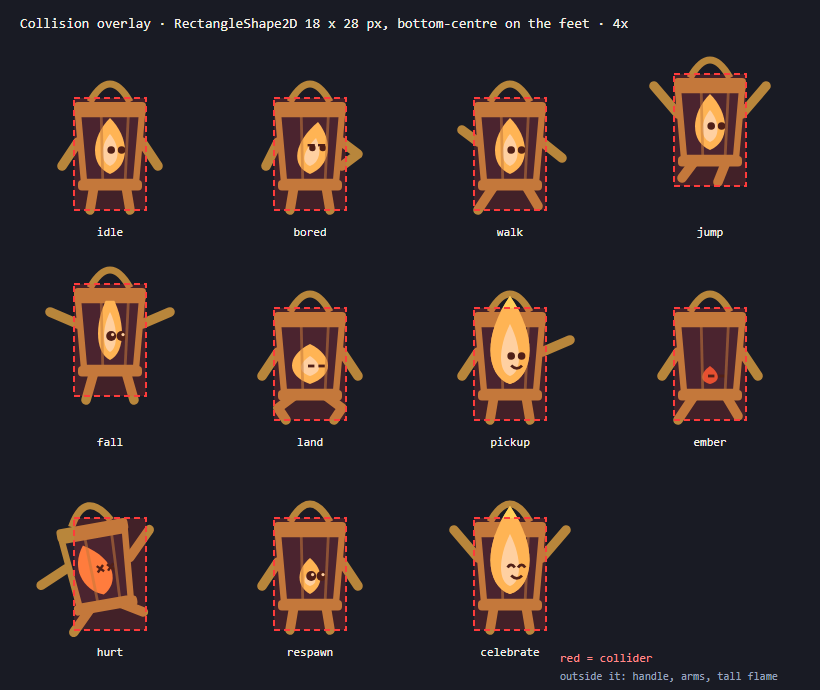
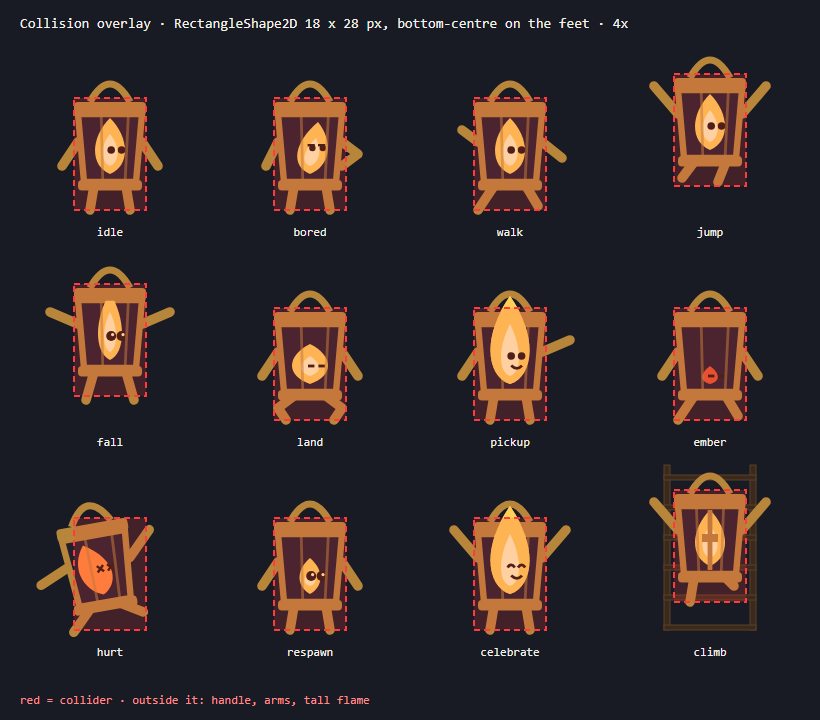
Add CHANGE-BRIEF.md v1; add ladder, ember light ring, climb pose
CHANGE-BRIEF: asset list, event-to-sound map tied to existing state
transitions, music behavior, oil and ladder rules, failure cases F1-F8.
Rui's decisions: ladder in the slice (CHAR-CLIMB, ENV-LADDER), a small
light ring remains at zero oil, character sheet stays SVG. CONCEPT and
CHARACTER-SHEET get appended revision logs; v1 text unchanged.

diff --git a/design/character/src/make_character_sheet.py b/design/character/src/make_character_sheet.py
@@ -37,6 +37,7 @@ LEGS = {
     "fall": [[(-4, -6), (-6, 1)], [(4, -6), (6, 1)]],
     "land": [[(-4, -6), (-8, -3), (-6, 0)], [(4, -6), (8, -3), (6, 0)]],
     "hurt": [[(-4, -6), (-9, -1)], [(4, -6), (9, -3)]],
+    "climb": [[(-4, -6), (-5, 0)], [(4, -6), (6, -4)]],
     "side": [[(-1, -6), (-3, 0)], [(1, -6), (3, 0)]],
 }
 ARMS = {
@@ -62,6 +63,7 @@ POSES = {
     "hurt": ("hurt", "hurt", "hurt", "three"),
     "respawn": ("idle", "idle", "kindle", "three"),
     "celebrate": ("idle", "up", "joy", "three"),
+    "climb": ("climb", "up", "full", "back"),  # added 2026-10-06: ladder is in the slice
 }
 
 
@@ -201,44 +203,54 @@ def turnaround():
     return svg(1010, 360, body)
 
 
+def ladder(cx, gy):
+    rails = "".join(f'<rect x="{cx + dx}" y="{gy - 165}" width="6" height="165" fill="#3b2a1c" stroke="#5a412a"/>' for dx in (-46, 40))
+    rungs = "".join(f'<rect x="{cx - 46}" y="{y}" width="92" height="5" fill="#3b2a1c" stroke="#5a412a"/>' for y in range(gy - 155, gy, 30))
+    return rails + rungs
+
+
 def poses():
     S = 4
     order = [("idle", "1 idle"), ("bored", "2 bored (idle > 4 s)"), ("walk", "3 walk"),
              ("jump", "4 jump (rising)"), ("fall", "5 fall"), ("land", "6 land"),
              ("pickup", "7 oil pickup"), ("ember", "8 ember (oil = 0)"), ("hurt", "9 hurt / fail"),
-             ("respawn", "10 respawn"), ("celebrate", "11 celebrate (exit)")]
+             ("respawn", "10 respawn"), ("celebrate", "11 celebrate (exit)"),
+             ("climb", "12 climb (on ladder)")]
     body = text(20, 28, "Wick — poses (right-facing; left = runtime flip) · drawn at 4x, feet on the line", 14)
     for i, (p, label) in enumerate(order):
         col, row = i % 4, i // 4
         cx, gy = 110 + col * 200, 210 + row * 210
         body += f'<line x1="{cx - 80}" y1="{gy}" x2="{cx + 80}" y2="{gy}" stroke="#6a7190" stroke-width="2"/>'
-        lift = -24 if p in ("jump", "fall") else 0
+        lift = -24 if p in ("jump", "fall") else (-28 if p == "climb" else 0)
         rot = -10 if p == "hurt" else 0
+        if p == "climb":
+            body += ladder(cx, gy)
         body += wick(cx, gy + lift, S, p, rot=rot)
         if p == "respawn":
             body += f'<circle cx="{cx}" cy="{gy - 60}" r="70" fill="none" stroke="#ffe08a" stroke-width="2" stroke-dasharray="3 9"/>'
         body += text(cx, gy + 26, label, 12, anchor="middle")
-    body += text(620, 676, "12 turnaround → turnaround.png", 12, "#9aa3bf")
-    return svg(820, 690, body)
+    body += text(20, 704, "13 turnaround → turnaround.png · climb is the back view, seen while on a ladder", 12, "#9aa3bf")
+    return svg(820, 720, body)
 
 
 def collision():
     S = 4
-    order = ["idle", "bored", "walk", "jump", "fall", "land", "pickup", "ember", "hurt", "respawn", "celebrate"]
+    order = ["idle", "bored", "walk", "jump", "fall", "land", "pickup", "ember", "hurt", "respawn", "celebrate", "climb"]
     x0, y0, w, h = COLLIDER
     body = text(20, 28, "Collision overlay · RectangleShape2D 18 x 28 px, bottom-centre on the feet · 4x", 14)
     for i, p in enumerate(order):
         col, row = i % 4, i // 4
         cx, gy = 110 + col * 200, 210 + row * 210
-        lift = -24 if p in ("jump", "fall") else 0
+        lift = -24 if p in ("jump", "fall") else (-28 if p == "climb" else 0)
         rot = -10 if p == "hurt" else 0
+        if p == "climb":
+            body += ladder(cx, gy)
         body += wick(cx, gy + lift, S, p, rot=rot)
         body += (f'<rect x="{cx + x0 * S}" y="{gy + lift + y0 * S}" width="{w * S}" height="{h * S}" '
                  f'fill="#ff3b3b" fill-opacity="0.18" stroke="#ff3b3b" stroke-width="2" stroke-dasharray="6 4"/>')
         body += text(cx, gy + 26, p, 12, anchor="middle")
-    body += text(560, 662, "red = collider", 12, "#ff8a8a")
-    body += text(560, 680, "outside it: handle, arms, tall flame", 11, "#9aa3bf")
-    return svg(820, 690, body)
+    body += text(20, 704, "red = collider · outside it: handle, arms, tall flame", 12, "#ff8a8a")
+    return svg(820, 720, body)
 
 
 def silhouette_1x():

diff --git a/CHANGE-BRIEF.md b/CHANGE-BRIEF.md
@@ -1,0 +1,154 @@
+# Change brief — Lamplight asset slice (v1, 2026-10-03)
+
+The plan and the predictions, written before any generation; panel numbers refer to the hand-drawn STORYBOARD.md v2. This file is **append-only** after it is
+committed: later changes go in the revision log at the bottom, not into the text above it.
+
+Starting point: walker-jumpman `9387542` `godot/`. Its `session.gd` already has the state machine this
+slice hangs everything on: `MENU → PLAYING ⇄ PAUSED`, `PLAYING → DYING → PLAYING` (0.55 s), and
+`PLAYING → COMPLETE`. Sounds and music **listen** to those transitions; they never drive them.
+
+## 1. Asset list
+
+"Gen" = made by a generative model (local, logged in SOURCES.md). "Code" = drawn or produced in Godot by
+code, which does not count toward the generative-model requirement. **Req** = required for the slice to
+meet the assignment; **Want** = used if it passes its check; the slice works without it.
+
+### Character (all from one reference, 32×40 px, palette-quantised — see CHARACTER-SHEET.md)
+
+| ID | What | Source | Panels | Priority | Planned path |
+|---|---|---|---|---|---|
+| CHAR-REF | Reference image every pose is derived from (not shown in game) | Gen | — | Req | `design/generation/char-ref/` |
+| CHAR-IDLE | idle | Gen | P1 P2 | Req | `godot/assets/char/wick_idle.png` |
+| CHAR-WALK | walk | Gen | P5 | Req | `godot/assets/char/wick_walk.png` |
+| CHAR-JUMP | jump, rising | Gen | P3 | Req | `godot/assets/char/wick_jump.png` |
+| CHAR-FALL | fall | Gen | P3 | Req | `godot/assets/char/wick_fall.png` |
+| CHAR-PICKUP | oil pickup | Gen | P4 | Req | `godot/assets/char/wick_pickup.png` |
+| CHAR-EMBER | ember (oil = 0) | Gen | P5 | Req | `godot/assets/char/wick_ember.png` |
+| CHAR-HURT | hurt / fail | Gen | P6 | Req | `godot/assets/char/wick_hurt.png` |
+| CHAR-CELEBRATE | celebrate | Gen | P8 | Req | `godot/assets/char/wick_celebrate.png` |
+| CHAR-RESPAWN | respawn | Gen | P7 | Want | `godot/assets/char/wick_respawn.png` |
+| CHAR-LAND | land | Gen | — | Want | `godot/assets/char/wick_land.png` |
+| CHAR-BORED | bored | Gen | — | Want | `godot/assets/char/wick_bored.png` |
+| CHAR-CLIMB | climb — back view on a ladder | Gen | P1 | Req | `godot/assets/char/wick_climb.png` |
+
+### Environment
+
+| ID | What | Source | Panels | Priority | Planned path |
+|---|---|---|---|---|---|
+| ENV-BG | Rock back wall, tiles horizontally, 640×360 | Gen | P1–P7 | Req | `godot/assets/env/bg_rock.png` |
+| ENV-TILE | Rock ledge tile set (top edge + fill), 16×16 cells | Gen | P2 P3 P5 P7 | Req | `godot/assets/env/tiles_rock.png` |
+| ENV-SPIKE | Spike strip, 8 px wide per spike | Gen | P3 P6 | Req | `godot/assets/env/spikes.png` |
+| ENV-OIL | Oil drop pickup, ~12×12 | Gen | P2 P4 | Req | `godot/assets/env/oil_drop.png` |
+| ENV-LAMPPOST | Checkpoint lamp post, ~16×48 | Gen | P7 | Want | `godot/assets/env/lamppost.png` |
+| ENV-LADDER | Wooden ladder segment that tiles vertically, 16 px wide | Gen | P1 | Req | `godot/assets/env/ladder.png` |
+| ENV-TIMBER | Pit-prop timber frame (set dressing; not in the hand-drawn panels) | Gen | — | Want | `godot/assets/env/timber.png` |
+| ENV-EXIT | Outdoor daylight end scene: open sky, sun, cloud, ground (storyboard v2 P8) | Gen | P1 P8 | Want | `godot/assets/env/exit_light.png` |
+
+### Code-made (not generated)
+
+| ID | What | Panels |
+|---|---|---|
+| LIGHT | Wick's light: a `PointLight2D` whose texture scale follows oil, over a `CanvasModulate` darkness | all gameplay |
+| UI-GAUGE | Oil gauge (flame icon + bar; red outline at 0) | P2 P5 |
+| UI-TEXT | Title, pause, end card text and the mute indicators | P1 P8 |
+| FX-FLASH | Red flash on the spike that killed you | P6 |
+
+### Sound and music
+
+| ID | What | Source | Panels | Priority | Planned path |
+|---|---|---|---|---|---|
+| SFX-JUMP | Short, dry, light "hop" with a small metal clink | Gen | P3 | Req | `godot/assets/audio/sfx_jump.ogg` |
+| SFX-PICKUP | Bright liquid "gulp" + flame flare, rising | Gen | P4 | Req | `godot/assets/audio/sfx_pickup.ogg` |
+| SFX-HURT | Sharp metallic hit + hiss of the flame | Gen | P6 | Req | `godot/assets/audio/sfx_hurt.ogg` |
+| SFX-EXIT | Open, airy resolve — wind and a soft chime | Gen | P8 | Req | `godot/assets/audio/sfx_exit.ogg` |
+| MUS-LOOP | Tense, steady pulse loop with a warm melodic layer, cut at a bar boundary | Gen | P1–P7 | Req | `godot/assets/audio/mus_loop.ogg` |
+
+## 2. Event-to-sound map
+
+Each sound is played by a small `Audio` node that connects to a **signal emitted at the one line where
+the event already happens**. The signal is emitted after the state change, and nothing reads back from
+the audio node, so a missing file, a muted bus or a failed load cannot change what happens.
+
+| Sound | Exact game event (existing code) | Why it can only fire once | Double-trigger risk we will test |
+|---|---|---|---|
+| SFX-JUMP | `player.gd` `_physics_process`, the branch that sets `velocity.y = jump_velocity` and `jumps += 1`. New signal `jumped`. Jumping off a ladder goes through the **same** branch (being on a ladder counts as a jump opportunity), so there is still one emit site. | That branch sets `opportunity_consumed = true`; it cannot run again until Wick is on the floor or grabs a ladder again. Jump uses `is_action_just_pressed`, so holding Space does not repeat. | Holding Space through a landing; mashing Space during coyote time; jump-buffer press just before landing; mashing Space while on a ladder. |
+| SFX-PICKUP | New: oil drop `Area2D` overlap, checked in `session.gd` `_physics_process` next to the hazard check. Signal `oil_collected`. | The drop is marked `collected`, hidden and its monitoring disabled **before** the signal is emitted; collected drops are skipped. | Standing on a drop for many frames; touching two drops in one frame (two sounds is correct there — one per drop). |
+| SFX-HURT | `session.gd` `resolve_contacts`, `fatal` branch (`PLAYING → DYING`). Signal `died`. Covers spikes and falling out. | The function returns early unless `state == PLAYING`, and the branch leaves `PLAYING`. Spike and fall in the same tick are OR-ed into one `fatal`. | Landing on two spike areas at once; spike + fall in one tick; the starter's phantom-contact case after respawn (`contact_settle_ticks`). |
+| SFX-EXIT | `session.gd` `resolve_contacts`, `finished` branch (`PLAYING → COMPLETE`). Signal `completed`. | Same guard: only from `PLAYING`, and the branch leaves it. | Standing inside the exit area for many frames; pressing Enter on the end card (starts a new session, no exit sound). |
+
+Not sounds in this slice (by decision, to keep four clear events): landing, footsteps, climbing, oil
+running out, respawn, menu clicks.
+
+## 3. Music behavior
+
+`MUS-LOOP` runs on its own **Music** bus with an `AudioEffectLowPassFilter`; the four sounds run on an
+**SFX** bus. Mute keys toggle `AudioServer.set_bus_mute` only.
+
+| Situation | Music does | Implemented as |
+|---|---|---|
+| Title (MENU) | Plays at full brightness | stream playing, cutoff 20 kHz |
+| Playing, oil healthy → low | Same loop, increasingly muffled as oil drops | cutoff follows oil: about 20 kHz at full, ~800 Hz near zero (curve to tune by ear) |
+| Ember (oil = 0) | Muffled to mostly the low pulse, slightly quieter | cutoff ~400 Hz, −4 dB |
+| Oil pickup | Opens back up over ~0.3 s | cutoff eased toward the new target |
+| **Pause** (Esc/P, or window loses focus) | Pauses; resumes from the same position | `stream_paused = true / false` |
+| **Failure** (DYING, 0.55 s) | Dips; keeps its position; comes back on respawn | volume ducked −12 dB, restored over 0.3 s in `restart_attempt` |
+| **Success / end of slice** (COMPLETE) | Stops and stays stopped on the end card; SFX-EXIT plays alone | `stop()`; Enter starts a new session and the loop from its start |
+| Back to menu (M) | Starts again at full brightness | `play()` from the start |
+
+The loop itself must repeat with no click or gap: it is cut at a bar boundary and imported with
+`loop = true` in the OGG import settings.
+
+**Controls added by the slice:** `N` = mute / unmute music, `B` = mute / unmute effects (the starter
+already uses `M` for menu). Both show a small on-screen indicator.
+
+## 4. Oil rules (needed to wire the light and the music; numbers are first guesses)
+
+- Oil 0–100, drains 4 per second (25 s from full to empty). Oil drop: +35, capped at 100.
+- Light radius from about 120 px at full to about 28 px (ember) at zero. **The light never goes fully
+  out:** at zero oil a small ring stays around Wick's body (Rui, 2026-10-06), so nearby hazards stay
+  faintly readable.
+- Lamp post: touching it saves the current oil; respawn restores that saved value (P7).
+- These numbers are predictions, to be revised by playtest and recorded in the revision log.
+
+## 4b. Ladder rules (added 2026-10-06 — the ladder from storyboard P1 is in the slice)
+
+- The slice has a lower tunnel and an upper tunnel joined by one ladder.
+- Overlapping the ladder and pressing Up (`W` / `↑`) grabs it: gravity off, Up / Down move at about
+  90 px/s, `CHAR-CLIMB` shows. Oil keeps draining.
+- Leaving the top steps onto the upper floor; pressing Down at the bottom, or Jump at any point, lets go.
+- New input actions: `climb_up` (`W`, `↑`), `climb_down` (`S`, `↓`). The walker-jumpman jump tuning
+  is unchanged.
+
+## 5. Readable without sound
+
+Every sound event has a visual twin, so muted play loses mood but not information:
+
+| Sound | Visual twin |
+|---|---|
+| SFX-JUMP | jump pose |
+| SFX-PICKUP | pickup pose, light grows, gauge rises |
+| SFX-HURT | hurt pose, spike flashes red, existing failure text |
+| SFX-EXIT | celebrate pose, end card |
+| Music muffling | light radius and gauge |
+
+## 6. Predicted failure cases and how each will be checked
+
+| # | Prediction | How I will check it | Pass condition |
+|---|---|---|---|
+| F1 | **Generated poses drift from the reference** — body taller or wider, eyes on the brass instead of the flame, a third limb, a different handle. | A script measures each quantised 32×40 sprite: brass bounding box, cap width, feet-to-cap height; plus an overlay of each sprite on `design/character/collision.png`; plus the 8 consistency rules by eye. | Cap 18 ± 1 px, feet-to-cap 27 ± 1 px, rules 1–8 hold. Failing poses are regenerated, not stretched to fit. |
+| F2 | **Wick disappears against the lit rock** (brass vs lit rock is only 2.1:1 on the sheet). | In-engine screenshot at full oil standing on the generated tiles; sample the background ring around Wick and compute contrast with the brass frame; look at 1× with eyes. | Brass ≥ 3:1 against the actual pixels around Wick, or a 1 px dark outline is added and logged as an edit. |
+| F3 | **A sound fires twice on one event** (held jump, spike+fall same tick, standing in the exit). | Automated test: scripted input sequence that counts each signal and each `AudioStreamPlayer.play()` call per event (rapid presses, held input, two hazards at once, idle inside the exit). | Exactly one sound per event occurrence for all four sounds. |
+| F4 | **The music loop clicks or gaps at the seam.** Generated music rarely ends on a bar line. | Cut at a bar boundary from the measured tempo; script checks the sample jump and RMS change across the seam; then I listen to at least three repetitions on headphones. | No audible click in three repeats; seam sample jump within the normal range of neighbouring samples. |
+| F5 | **Muting changes the game, or muted play is unreadable** (e.g. ember only "heard" through the music). | Automated: run the same input sequence with both buses muted and unmuted and compare the state trace. Human: play once fully muted. | Identical state traces; I can tell jump, pickup, death, ember and exit apart with sound off. |
+| F6 | **"Pixel art" from the model is not on a pixel grid** — soft edges, half-pixels, extra colours, a drawn checkerboard instead of transparency. | Prompt for a solid flat background; downscale with nearest-neighbour to the sprite size; quantise to the six-colour palette; count unique colours; check Godot import filter = Nearest. | ≤ 6 colours + transparency per character sprite; no blur in an in-engine screenshot at 6×. |
+| F8 | **The ladder breaks the old movement** — Wick sticks at the top, falls through the upper floor, or a jump off the ladder fires `jumped` twice. | Automated: scripted climb up, climb down, jump off mid-ladder, mash Space on the ladder; count `jumped` and check final positions. Human: climb with keyboard both ways. | Reaches the upper floor every time; one jump sound per jump-off; the walker-jumpman tests still pass. |
+| F7 | **The low-pass "muffling" is too subtle to hear** on laptop speakers, so the music state carries no information. | Listen at full / half / zero oil on laptop speakers and headphones. | The three levels are distinguishable by ear; if not, add the −4 dB volume step earlier. |
+
+## 7. What the slice is not
+
+One short stretch — a lower tunnel and an upper tunnel joined by a ladder — not the full mine. No new jump physics (the walker-jumpman tuning is kept). No
+animation: each state is one static image swapped in. No voice.
+
+## 8. Revision log
+
+_Append dated entries here after this file is first committed._

diff --git a/FRICTIONAL.md b/FRICTIONAL.md
@@ -83,3 +83,56 @@ Each entry separates what Rui decided, what Claude proposed or wrote, and what a
   No generative model.
 - **Still unresolved:** whether 8 required + 3 optional poses is too many to keep consistent with a
   diffusion model on an 8 GB card.
+
+## 2026-10-03 — change brief (drafted, waiting for Rui's review before commit)
+
+- **Wanted:** the last design document before generation: what assets, which events make which
+  sound, what the music does, and what I expect to go wrong.
+- **Asked (Rui → Claude):** write CHANGE-BRIEF.md but do not commit it yet.
+- **Got (Claude, no generative model):** CHANGE-BRIEF.md v1 draft — 12 character IDs, 7 environment
+  IDs, 4 code-made items, 4 sounds + 1 music loop; each sound tied to the exact existing line in
+  `player.gd` / `session.gd` where its event already happens; music table for title / oil level /
+  ember / pickup / pause / failure / success / menu; seven predicted failures F1–F7 with checks.
+- **Choices in the draft that are Claude's proposals, for Rui to accept or change:** mute keys `N`
+  (music) and `B` (effects) because `M` is already the menu key; oil numbers (drain 4/s, drop +35,
+  light 120 → 28 px) marked as first guesses; landing / footsteps / respawn deliberately have no sound.
+- **Human / Claude / model:** Claude drafted; Rui reviews before it is committed.
+- **Still unresolved:** _Rui's review notes._
+
+## 2026-10-05 / 2026-10-06 — storyboard redrawn by hand
+
+- **What changed:** on 2026-10-05 Rui reported that the instructor said in class the storyboard must be
+  hand-drawn. The Claude-written SVG storyboard (v1, `96abb60`) is kept as `STORYBOARD-v1-svg.md`;
+  it is no longer the deliverable.
+- **Drawn (Rui, by hand):** first six panels on 2026-10-06. Claude checked them against the assignment
+  and found three gaps: no failure panel, no recovery panel, and only two camera angles (high + eye
+  level). Rui added **died** (drawn with the ground tilted, a Dutch angle) and **restart** (lamp post) in
+  the empty bottom row. Both photos are kept in `design/storyboard/hand/`.
+- **Rui's own design changes against v1 (visible in the drawings):** the ending is **outdoors** under
+  sun and cloud, not a shaft of light; the route map has a **ladder** between tunnels; the oil pickup
+  close-up is at eye level; the oil-empty panel shows **no light at all**.
+- **Claude did:** cropped the photo into eight panels and evened out the shadow with `crop_panels.py`
+  (lines untouched); wrote STORYBOARD.md v2 from what the drawings show; updated the uncommitted
+  CHANGE-BRIEF (ENV-EXIT is now an outdoor scene; timber is not in any panel).
+- **Open questions recorded in STORYBOARD.md for Rui:** is "no light" in panel 5 literal, or the tiny
+  ember radius from the concept? The ladder is treated as full-game only (no climbing in the slice).
+- **Human / Claude / model:** drawings and the design changes are Rui's; crops and text are Claude's.
+  No generative model.
+
+## 2026-10-06 — three decisions after the storyboard
+
+- **Decided (Rui):**
+  1. The character sheet stays as Claude's SVG drawings (option A). Claude had pointed out the risk: if
+     the instructor's "hand-drawn" rule also covers the character sheet, that criterion may lose points.
+     Rui accepted the risk.
+  2. **The ladder goes into the slice.** Climbing becomes a verb.
+  3. When the oil runs out, **a very small ring of light stays around Wick's body**. It is not fully
+     dark. (Answer to the panel 5 "no light" question.)
+- **Claude did:** added pose 12 "climb" (back view on a ladder) to the sheet script and re-rendered
+  `poses.png` / `collision.png`; added CHAR-CLIMB, ENV-LADDER, ladder rules (§4b) and failure case F8 to
+  the uncommitted CHANGE-BRIEF; resolved the two open notes in STORYBOARD.md; appended revision logs to
+  CONCEPT.md and CHARACTER-SHEET.md without changing their v1 text.
+- **Consequence noted by Claude:** climbing is new movement code on top of the walker-jumpman controller,
+  so it is the riskiest part of the slice to build (see F8). The four sound events stay the same;
+  climbing has no sound.
+- **Human / Claude / model:** decisions Rui's; edits Claude's. No generative model.

diff --git a/CHARACTER-SHEET.md b/CHARACTER-SHEET.md
@@ -123,3 +123,17 @@ dark backgrounds by design: they are interior colours, always surrounded by bras
    pickup and celebrate; ember coal only in ember.
 7. **Pixel art:** hard pixel edges, no anti-aliased blur, Godot texture filter = Nearest.
 8. **Right-facing three-quarter view** for every gameplay pose.
+
+## Revision log
+
+- **2026-10-06 — drawings stay as Claude-written SVG (Rui's decision).** The instructor asked for
+  hand-drawn design pictures; the storyboard was redrawn by hand. For this sheet Rui chose to keep the
+  SVG drawings. They are made by `design/character/src/make_character_sheet.py`, written by Claude, not by
+  a generative model. Rui reviewed and accepts the measurements, collider, palette and consistency rules
+  as the contract.
+- **2026-10-06 — pose 12 "climb" added** because the ladder from storyboard P1 is now in the slice. It
+  uses the **back view** from the turnaround, with arms up on the rungs and one leg raised. It is
+  the only gameplay pose that is not the right-facing three-quarter view (an exception to consistency
+  rule 8); it is not flipped. The collider is unchanged and covers the body on the ladder. `poses.png` and
+  `collision.png` were re-rendered with the new pose; the 11-pose versions are in commit `088bce6`.
+  Game state: on a ladder (`climb` state), required in the slice.

diff --git a/CONCEPT.md b/CONCEPT.md
@@ -56,3 +56,10 @@ The player should feel **tense but in control**: a steady pulse that says "keep 
 One short tunnel: start, a few jumps, at least one oil drop, one spike hazard, one checkpoint lamp post,
 and the exit. Controllable Wick with static state images, one looping music track, four event sounds,
 and separate music / effects mute keys. The full game (more tunnels, more hazard types) is out of scope here.
+
+## Revision log
+
+- **2026-10-06 (Rui):** the slice scope grows from "one short tunnel" to a lower and an upper tunnel
+  joined by a **ladder** (from the hand-drawn storyboard P1); climbing becomes a verb. When the oil runs out
+  the light shrinks to **a very small ring around Wick's body**, never fully dark. The ending is
+  **outdoors** in daylight (storyboard P8). The text above is the v1 record and is left unchanged.
